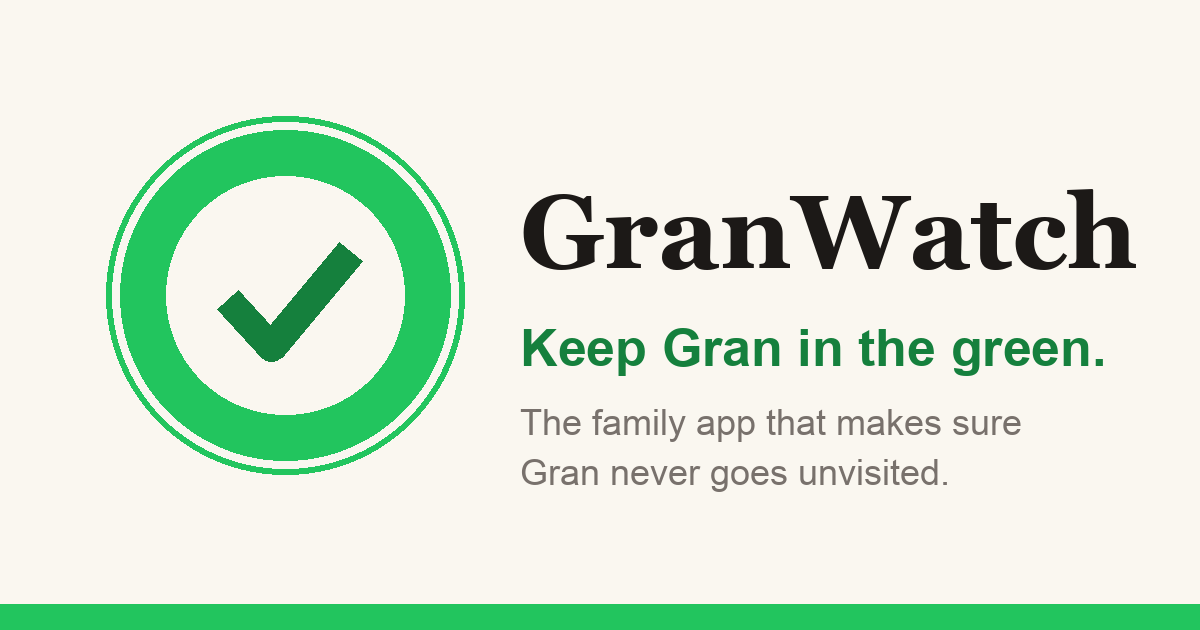
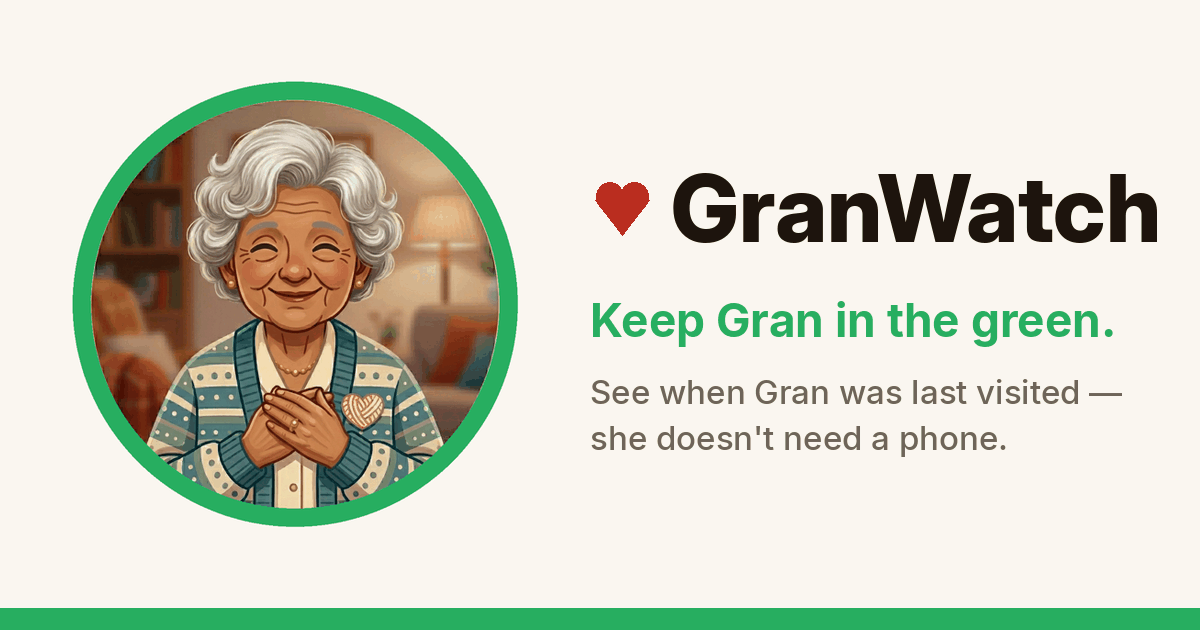
Brand unification: on-brand OG share card + BRAND.md source of truth
- og-default.png rebuilt from the real brand (granny mascot + heart/Inter
  wordmark + tagline hierarchy) replacing the off-brand checkmark card
- content pages: heart+ink wordmark matching the app header; og:image ?v=2
  to nudge link-preview caches; footer carries the brand tagline
- BRAND.md: colours, wordmark, mascot, tagline hierarchy, voice rules
  (incl. never limiting who GranWatch is 'for')

Changed region(s): [[0.0617, 0.1206, 0.9867, 0.8444], [0.0, 0.9349, 1.0, 0.9651]]

diff --git a/server/contentRoutes.ts b/server/contentRoutes.ts
@@ -42,7 +42,7 @@ function layout(opts: {
 <meta property="og:title" content="${opts.title}">
 <meta property="og:description" content="${opts.description}">
 <meta property="og:url" content="${canonical}">
-<meta property="og:image" content="${APP_URL}/og-default.png">
+<meta property="og:image" content="${APP_URL}/og-default.png?v=2">
 <meta property="og:type" content="article">
 <link rel="icon" href="/icon-192.png">
 ${schemaTag}
@@ -51,8 +51,8 @@ ${schemaTag}
   *{box-sizing:border-box}
   body{margin:0;background:var(--bg);color:var(--ink);font:17px/1.7 -apple-system,BlinkMacSystemFont,"Segoe UI",Roboto,sans-serif}
   header{padding:20px 24px;border-bottom:1px solid #e8e2d8}
-  header a{color:var(--ink);text-decoration:none;font-weight:700;font-size:20px}
-  header a span{color:var(--green)}
+  header a{color:var(--ink);text-decoration:none;font-weight:800;font-size:20px;display:inline-flex;align-items:center;gap:7px}
+  header a svg{width:19px;height:19px;fill:#BA2D1F}
   main{max-width:720px;margin:0 auto;padding:32px 24px 64px}
   h1{font-size:32px;line-height:1.25;margin:0 0 8px}
   h2{font-size:22px;margin:36px 0 8px}
@@ -75,11 +75,11 @@ ${schemaTag}
 </style>
 </head>
 <body>
-<header><a href="${APP_URL}">Gran<span>Watch</span></a></header>
+<header><a href="${APP_URL}"><svg viewBox="0 0 24 24" aria-hidden="true"><path d="M12 21.35l-1.45-1.32C5.4 15.36 2 12.28 2 8.5 2 5.42 4.42 3 7.5 3c1.74 0 3.41.81 4.5 2.09C13.09 3.81 14.76 3 16.5 3 19.58 3 22 5.42 22 8.5c0 3.78-3.4 6.86-8.55 11.54L12 21.35z"/></svg>GranWatch</a></header>
 <main>${opts.bodyHtml}</main>
 <footer>
   <a href="${APP_URL}">Home</a><a href="/guides">Guides</a><a href="/faq">FAQ</a><a href="/privacy">Privacy</a><a href="/terms">Terms</a>
-  <div style="margin-top:8px">GranWatch — see when Gran was last visited. She doesn't need a phone.</div>
+  <div style="margin-top:8px">GranWatch — Keep Gran in the green. She doesn't need a phone.</div>
 </footer>
 </body>
 </html>`;

diff --git a/BRAND.md b/BRAND.md
@@ -1,0 +1,35 @@
+# GranWatch — Brand One-Pager (source of truth)
+*Created 2026-08-13 after Konna flagged share-card inconsistency. Any asset — OG image, store screenshot, social post, email, page — must match this. If something here changes, change it HERE first, then everywhere.*
+
+## Wordmark
+**♥ GranWatch** — the red heart, then "GranWatch" in **Inter ExtraBold/Bold, single ink colour**. Never split-coloured, never serif. (This matches the app header and splash.)
+
+## Mascot
+The illustrated granny in the green ring (`client/public/og-gran.png` / app icon). She is the face of the brand on any image asset. Never replace her with abstract symbols (the old checkmark card is retired).
+
+## Colours
+| Role | Hex | Source |
+|---|---|---|
+| Heart red (primary) | `#BA2D1F` | `--primary: oklch(0.52 0.18 30)` |
+| Cream background | `#FAF6F0` | `--background` / mascot bg |
+| Ink | `#1D140D` | `--foreground` |
+| Ring green (status/brand accent) | `#27AE60` | sampled from icon ring |
+| Muted text | `#6E6459` | derived |
+
+Green is the *status* colour (the promise). Red heart is the *brand* colour (the love). Don't swap their jobs.
+
+## Typography
+Inter (app + web). Weights: ExtraBold for wordmark/headlines, Bold for taglines, Medium/Regular for body. System-sans fallback stack is fine on server-rendered pages.
+
+## Taglines (fixed hierarchy)
+1. **Brand line:** "Keep Gran in the green." — appears with the wordmark (OG image, site title, footers).
+2. **Positioning line:** "See when Gran was last visited — she doesn't need a phone." — the subtitle everywhere the brand line appears.
+3. Footer affection line: "made with love, for every gran."
+
+## Voice rules
+- Guilt-RELIEF, never guilt-shaming. The ring states facts kindly; copy never accuses.
+- Never limit who GranWatch is "for" (Konna, 2026-08-12). Speak to the reader's situation; don't fence the product.
+- Gran is the beneficiary, never the user: "she doesn't need a phone" appears early and often.
+
+## Canonical share image
+`client/public/og-default.png` (1200×630, rebuilt 2026-08-13): mascot left, ♥ GranWatch + both taglines right, green base bar. Reference with `?v=N` bump when regenerated (link-preview caches). Rebuild recipe: coach has the script (PIL, Inter font, colours above).
